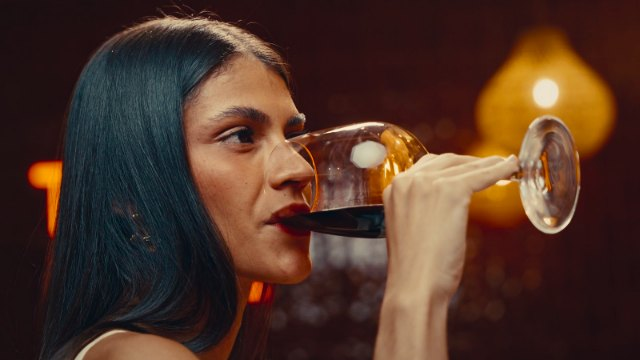
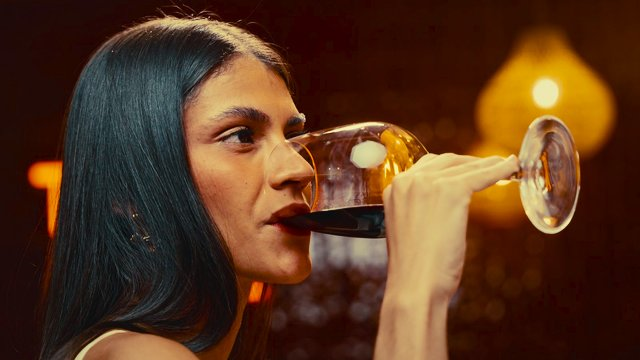
Revela Look calibrado no grade de película das produções do titular
- parâmetros do motor ajustados nos stills (Rec.709 → look, 3 cenas fora do repositório): ΔE 6,2 → 2,9
- giros de matiz dentro do limite do motor; os outros quatro looks ficam na base antiga
- teste de pele quente; imagem do Revela Look na página inicial refeita; README, roadmap e validação

Claude-Session: https://claude.ai/code/session_018CsddJX1e5cNJALMVXCxWp

diff --git a/products/finishing/src/cor/looks.js b/products/finishing/src/cor/looks.js
@@ -48,22 +48,23 @@ const BASE = {
 
 /**
  * Revela Look (26/10/2026): o mesmo motor, calibrado nos stills de produções do titular (Rec.709 → o grade de película
- * que ele usa no Resolve, 3 cenas, fora do repositório). Erro médio de 6,2 para 2,8 (ΔE Oklab ×100) nessas cenas.
+ * que ele usa no Resolve, 3 cenas, fora do repositório). Erro médio de 6,2 para 2,9 (ΔE Oklab ×100) nessas cenas.
  * São só os parâmetros abaixo: o look continua sendo este motor, não uma LUT copiada.
  */
 export const REVELA_LOOK = {
   ...BASE,
-  preto: 0.042,
-  branco: 0.961,
-  contraste: 7.9, // meio mais denso, como numa cópia
-  pivo: 0.387, // o meio-tom desce
-  densidade: 0.5, // cor saturada pesa bem mais
-  verde: { ...BASE.verde, gira: -23, croma: 0.52 }, // verde oliva e contido
-  azul: { ...BASE.azul, gira: -40, croma: 0.5 }, // azul vira petróleo/ciano, sem gritar
-  pele: { ...BASE.pele, junta: 0.8 }, // pele se junta forte no tom de pele
-  sombras: [-0.001, -0.0013], // sombra quase neutra
-  altas: [-0.0104, 0.0519], // altas douradas
-  saturacao: 1.12,
+  preto: 0.045,
+  branco: 0.958,
+  contraste: 8, // meio mais denso, como numa cópia
+  pivo: 0.391, // o meio-tom desce
+  densidade: 0.4, // cor saturada pesa bem mais
+  // giros dentro do limite do motor (largura × 2/π): o matiz nunca dobra sobre si mesmo
+  verde: { ...BASE.verde, gira: -26, croma: 0.56 }, // verde oliva e contido
+  azul: { ...BASE.azul, gira: -24, croma: 0.5 }, // azul puxa para petróleo, sem gritar
+  pele: { ...BASE.pele, junta: 0.45 }, // pele se junta em volta do tom de pele
+  sombras: [-0.002, -0.0007], // sombra quase neutra
+  altas: [-0.0173, 0.06], // altas douradas
+  saturacao: 1.13,
 }
 
 /**

diff --git a/products/finishing/test/looks.test.js b/products/finishing/test/looks.test.js
@@ -32,7 +32,7 @@ test('Revela Look: curva de filme monótona, preto aberto e branco que deita', (
   assert.ok((curvaDeFilme(0.55) - curvaDeFilme(0.45)) / 0.1 > 1)
 })
 
-test('Revela Look: sombras frias, altas quentes, verde para oliva, pele no lugar', () => {
+test('Revela Look: sombras frias, altas douradas, verde para oliva, pele quente', () => {
   const look = criarRevelaLook()
   const sombra = codigoParaOklab(...look.aplicar(0.12, 0.12, 0.12))
   const alta = codigoParaOklab(...look.aplicar(0.85, 0.85, 0.85))
@@ -48,7 +48,11 @@ test('Revela Look: sombras frias, altas quentes, verde para oliva, pele no lugar
   const pele = [0.78, 0.58, 0.47]
   const p0 = codigoParaOklab(...pele)
   const p1 = codigoParaOklab(...look.aplicar(...pele))
-  assert.ok(Math.abs(matiz(p1) - matiz(p0)) < 8, 'pele mudou de matiz demais')
+  // calibrado no grade do titular: pele clara vai para o dourado (lá ela vai de ~47° para ~78°), sem virar verde
+  assert.ok(matiz(p1) >= matiz(p0) && matiz(p1) < 80, `pele foi para ${matiz(p1).toFixed(0)}°`)
+  // os outros looks continuam com a pele no lugar
+  const suave = criarRevelaLook({ look: 'suave' })
+  assert.ok(Math.abs(matiz(codigoParaOklab(...suave.aplicar(...pele))) - matiz(p0)) < 8, 'Suave mudou a pele')
 })
 
 test('Revela Look: só a curva ou só a cor', () => {

diff --git a/docs/validation.md b/docs/validation.md
@@ -777,3 +777,18 @@ Anotar por aparelho: sistema, tamanho do arquivo, tempo, destino e o que falhou.
 - Painel no app: ferramenta sem versão para o computador (NOSSOM hoje) mostra **Abrir na web** em vez de ficar sem
   botão. SOBEDESCE e Synquei têm instalador para Mac e Windows no catálogo (`/api/v1/desktop/apps`).
 - Não validado: o Mac de verdade (a área de arrastar só vale lá e no Windows); conferir no 1.1.1 instalado.
+
+## Revela Look calibrado no grade do titular (26/10/2026)
+
+- Pedido do titular: o Revela Look para usar nas produções dele, perto do grade de película que ele usa. Parâmetros do
+  motor (`src/cor/looks.js`) ajustados por Nelder-Mead nos pares Rec.709 → look de 3 cenas (fora do repositório; a
+  cena 1.19 ficou de fora porque o still do look é de outra sessão e de outro grade).
+- Erro médio (ΔE Oklab ×100): 7,3 sem nada, 6,2 com o look antigo, **2,9** com o novo. Validação cruzada (ajusta em 3,
+  mede na 4ª) com a primeira versão: 3,5 a 5,5 contra 3,9 a 7,6 do antigo.
+- Primeira versão recusada: o giro do azul passava do limite do motor (largura × 2/π) e o matiz dobrava entre azul e
+  roxo. A versão final limita os giros (verde −26°, azul −24°) e a junção da pele (0,45) e perde quase nada (2,82 → 2,86).
+- Pele clara vai para o dourado como no grade de referência (lá de ~47° para ~78° de matiz; no look novo ~62°); o
+  teste agora pede pele quente sem passar de 80°. Suave, Petróleo, Dourado e P&B usam a base antiga e não mudaram.
+- `marca/home/look-revela.jpg` refeita com o look novo (mesmo frame e tamanho das outras).
+- `products/finishing`: `npm test` 94/94.
+- Não validado: o `.cube` do look novo aplicado no Resolve em material de vídeo.

diff --git a/docs/roadmap.md b/docs/roadmap.md
@@ -139,6 +139,7 @@ Atualizado em 26/10/2026. Legenda: ✅ entregue · 🟡 parcial · ⬜ não inic
 - ✅ Revela: telas no padrão Apple com pouco texto (cartões visuais, Liquid Glass, motion com "reduzir movimento").
 - 🟡 Revela: conversor no navegador, celular e computador (master ProRes → YouTube, Vimeo, Reels, TikTok em H.264/HEVC marcado BT.709; arquivo não sai do aparelho). Falta: teste em iPhone/Android reais, arquivos acima de 1,5 GB no celular e conversão de HDR.
 - 🟡 Revela: página inicial com motion, página de login e login único Absolute ZRO (`api/zro/*`, cliente `revela-web`). Cliente `revela-web` cadastrado (26/10/2026, retorno `https://revela.absolutezro.com/api/zro/callback`), `sso_start_url` do `finishing` e `ZRO_CLIENT_ID` na Vercel. Falta: o titular colar `ZRO_CLIENT_SECRET` na Vercel (produção) e publicar de novo.
+- ✅ Revela Look calibrado no grade de película das produções do titular (ΔE 6,2 → 2,9 nas cenas do estudo); os outros looks seguem iguais.
 - ✅ Revela: Clonar LUT com curva de tom e **Mais frames** (até 6 stills do mesmo grade, par e orientação automáticos); CST com saída LogC3 / AWG3 para LUT de película. Estudo com stills reais do titular (S-Log3, Rec.709 e look de película).
 - ✅ Revela: abas do dock trocam só o painel central (`app/navegar.js`), sem recarregar menu, topo nem dock; a marca da aba desliza e cada painel guarda o que estava.
 - 🟡 Revela Look: look de película próprio como preset da tela de LUT (`src/cor/looks.js`, .cube 33/65). Falta: comparar no Resolve com o FVPro+ do titular e ajustar.

diff --git a/products/finishing/README.md b/products/finishing/README.md
@@ -51,7 +51,11 @@ halação não cabem numa LUT.
 `src/cor/looks.js`: o look pronto da plataforma, uma emulação de película feita do zero (matemática própria, sem
 LUT ou DCTL de terceiros). Em Oklab: curva de filme (preto aberto, meio com contraste, altas que deitam), densidade
 (cor forte escurece), verde para oliva, azul para petróleo, pele junta, saturação menor nas altas, sombras frias e
-altas quentes. Na tela de LUT, o botão **Revela Look** entra no lugar da referência; sai `revela-look-33.cube` ou
+altas quentes. Desde 26/10/2026 os parâmetros dele são calibrados no grade de película que o titular usa nas
+produções (stills Rec.709 → look, 3 cenas, fora do repositório): meio mais denso e mais baixo, cor saturada mais
+pesada, verde oliva, azul contido, pele e altas douradas. Erro médio de 6,2 para 2,9 (ΔE Oklab ×100) nessas cenas;
+continua sendo o motor da Revela, não uma LUT copiada, e os giros de matiz ficam dentro do limite em que a cor não
+dobra. Os outros quatro looks seguem a base antiga. Na tela de LUT, o botão **Revela Look** entra no lugar da referência; sai `revela-look-33.cube` ou
 `-65.cube` (Rec.709 → Rec.709, depois da conversão do LOG). Contraste, Cor e Intensidade valem para ele também.
 
 ### Looks da Revela e a grade
